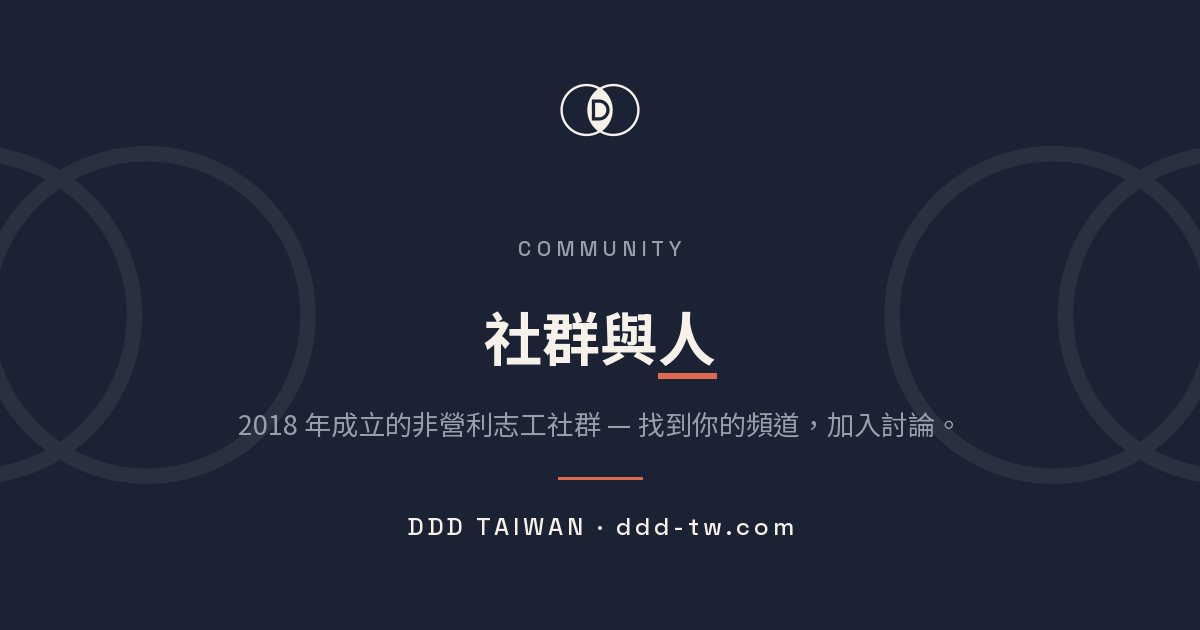
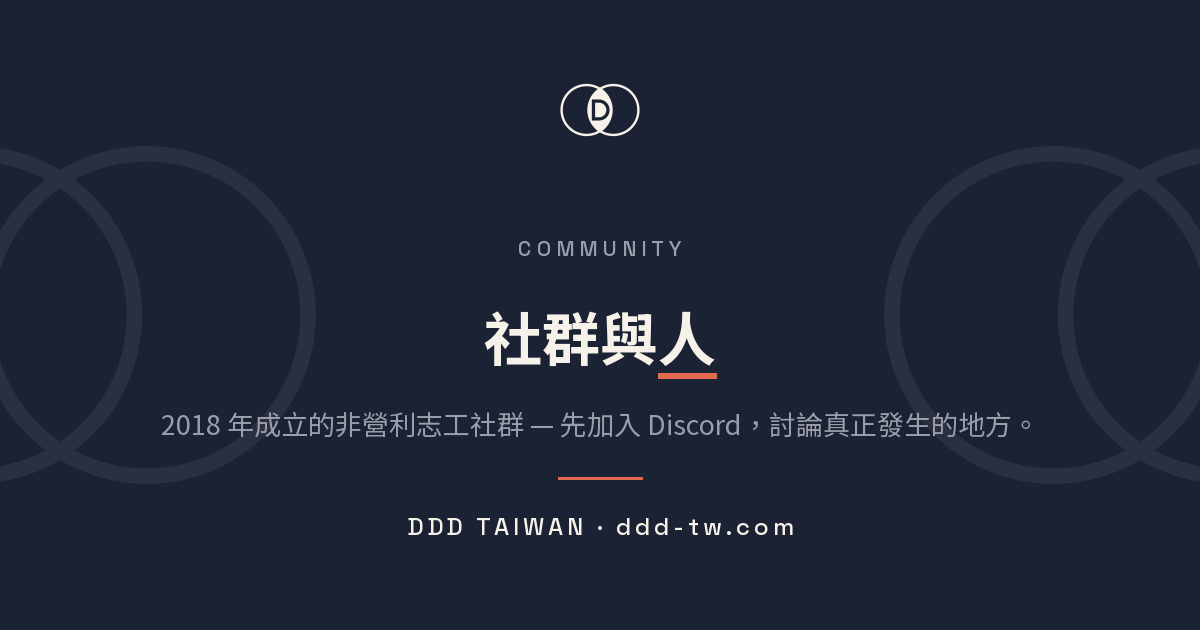
Retire the LINE community link and make Discord the primary channel
Remove the LINE card from the community page and the Line mention in the
privacy policy (Telegram was never listed). Promote Discord everywhere a
visitor might look for the community: a featured Discord hero on the
community page listing the real channels, a banner on the home page, a
link in the Meetup card on the events page, a nudge under the achievement
card on /me, a site-wide footer link, and refreshed community OG images.

Changed region(s): [[0.1233, 0.6333, 0.8633, 0.6937]]

diff --git a/src/styles/global.css b/src/styles/global.css
@@ -706,6 +706,140 @@ a.card:hover,
   color: var(--brand-strong);
 }
 
+/* ---- Discord 主打（社群頁 hero / 首頁 banner） ---- */
+.dc-hero {
+  display: grid;
+  grid-template-columns: 1.15fr 1fr;
+  gap: 40px;
+  padding: 40px 44px;
+  border-radius: 14px;
+  background:
+    radial-gradient(120% 140% at 100% 0%, rgba(88, 101, 242, 0.28) 0%, transparent 55%),
+    var(--banner-bg);
+  color: #fbf8f1;
+  border: 1px solid rgba(88, 101, 242, 0.35);
+}
+.dc-hero__eyebrow {
+  color: #a5b0ff;
+  margin: 0 0 10px;
+}
+.dc-hero__title {
+  font-size: 30px;
+  line-height: 1.25;
+  margin: 0 0 14px;
+  color: #fbf8f1;
+}
+.dc-hero__lead {
+  font-size: 15px;
+  line-height: 1.7;
+  color: #c7cde0;
+  margin: 0 0 24px;
+}
+.dc-hero__actions {
+  display: flex;
+  align-items: center;
+  gap: 16px;
+  flex-wrap: wrap;
+}
+.dc-hero__btn {
+  display: inline-flex;
+  align-items: center;
+  gap: 10px;
+  background: #5865f2;
+  color: #fff;
+  box-shadow: 0 6px 18px rgba(88, 101, 242, 0.4);
+}
+.dc-hero__btn:hover {
+  background: #4752c4;
+  transform: translateY(-1px);
+}
+.dc-hero__btn svg {
+  width: 18px;
+  height: 18px;
+  fill: currentColor;
+}
+.dc-hero__sub {
+  font-size: 12.5px;
+  color: #a4abbd;
+}
+.dc-hero__rank {
+  display: inline-block;
+  margin-top: 18px;
+  font-size: 13px;
+  color: #a5b0ff;
+}
+.dc-hero__rank:hover {
+  color: #fbf8f1;
+}
+.dc-hero__points {
+  list-style: none;
+  margin: 0;
+  padding: 0;
+  display: grid;
+  gap: 12px;
+  align-content: center;
+}
+.dc-hero__points li {
+  padding: 14px 16px;
+  border-radius: 10px;
+  background: rgba(255, 255, 255, 0.05);
+  border: 1px solid rgba(255, 255, 255, 0.08);
+}
+.dc-hero__ch {
+  display: block;
+  font-size: 12px;
+  color: #a5b0ff;
+  margin-bottom: 4px;
+}
+.dc-hero__pt {
+  display: block;
+  font-size: 13.5px;
+  line-height: 1.55;
+  color: #d4d9e6;
+}
+
+.dc-banner {
+  display: flex;
+  align-items: center;
+  justify-content: space-between;
+  gap: 24px;
+  flex-wrap: wrap;
+  padding: 32px 36px;
+  border-radius: 10px;
+  background:
+    radial-gradient(120% 160% at 100% 0%, rgba(88, 101, 242, 0.3) 0%, transparent 55%),
+    var(--banner-bg);
+  border: 1px solid rgba(88, 101, 242, 0.35);
+}
+.dc-banner__body {
+  max-width: 620px;
+}
+.dc-banner__eyebrow {
+  color: #a5b0ff;
+  margin: 0;
+}
+.dc-banner__title {
+  font-size: 24px;
+  color: #fbf8f1;
+  margin: 8px 0;
+}
+.dc-banner__desc {
+  color: #b9c2d4;
+  font-size: 14.5px;
+  margin: 0;
+}
+
+@media (max-width: 860px) {
+  .dc-hero {
+    grid-template-columns: 1fr;
+    gap: 28px;
+    padding: 28px 24px;
+  }
+  .dc-hero__title {
+    font-size: 25px;
+  }
+}
+
 /* ---- Governance / policy page ---- */
 .gov-toc {
   display: flex;

diff --git a/scripts/build-og-image.py b/scripts/build-og-image.py
@@ -83,12 +83,12 @@ CORE_PAGES: dict[str, dict] = {
     "/community/": {
         "eyebrow": "COMMUNITY",
         "lines": [("社群與", "人", "")],
-        "sub": "2018 年成立的非營利志工社群 — 找到你的頻道，加入討論。",
+        "sub": "2018 年成立的非營利志工社群 — 先加入 Discord，討論真正發生的地方。",
     },
     "/en/community/": {
         "eyebrow": "COMMUNITY",
         "lines": [("Find your ", "people", "")],
-        "sub": "A non-profit, volunteer-run community since 2018 — find your channel and join in.",
+        "sub": "A non-profit, volunteer-run community since 2018 — start on Discord, where the conversation happens.",
     },
     "/governance/": {
         "eyebrow": "GOVERNANCE",
